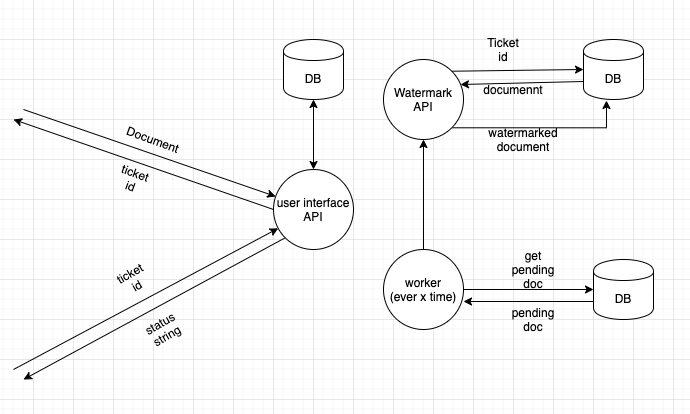
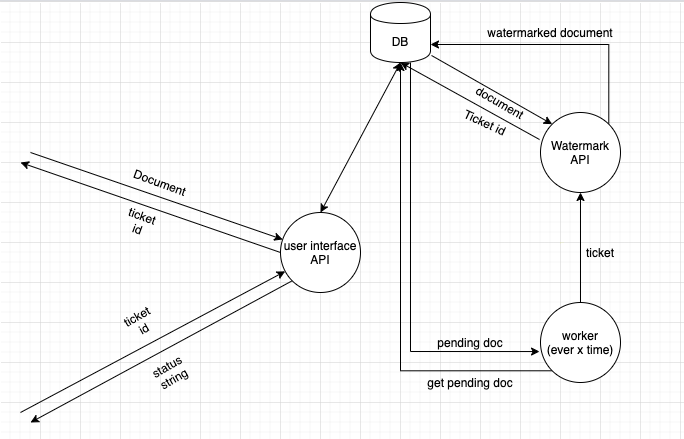
added document retriever api and modified arch to existing (shared db)

diff --git a/src/userInterface/index.js b/src/userInterface/index.js
@@ -30,7 +30,7 @@ app.get('/status', (req, res) => {
                 else
                     return Promise.reject({status: 500, message:"Status not found on document"})
             } else {
-                return Promise.reject({status: 401, message:"No document found"})
+                return Promise.reject({status: 400, message:"No document found"})
             }
         }).catch(error=>{
             if (error.status)
@@ -41,5 +41,25 @@ app.get('/status', (req, res) => {
     } else {
         res.status(400).send()
     }
-})
+});
+
+app.get('/document', (req, res) => {
+    ticket = req.query.ticket
+    if (ticket) {
+        db.get(ticket).then(result=>{
+            if (result) {
+                res.json(result);
+            } else {
+                return Promise.reject({status: 400, message:"No document found"})
+            }
+        }).catch(error=>{
+            if (error.status)
+                res.status(error.status).json(error);
+            else
+                res.status(500).send("Some error occured")
+        })
+    } else {
+        res.status(400).send()
+    }
+});
 app.listen(port, () => console.log(`Example app listening at http://localhost:${port}`))

diff --git a/ChangeLog.md b/ChangeLog.md
@@ -1,10 +1,13 @@
 ### milestone - 1
 minimum viable app
 
-#### 1.05
+#### 1.0.6
+- Add retriever to get the document
+
+#### 1.0.5
 - Add a status api end point that gets status from ticket
 
-#### 1.04
+#### 1.0.4
 - create a worker thread that finds pending items in db, and calls watermaker every x ticks
 
 #### 1.0.3
